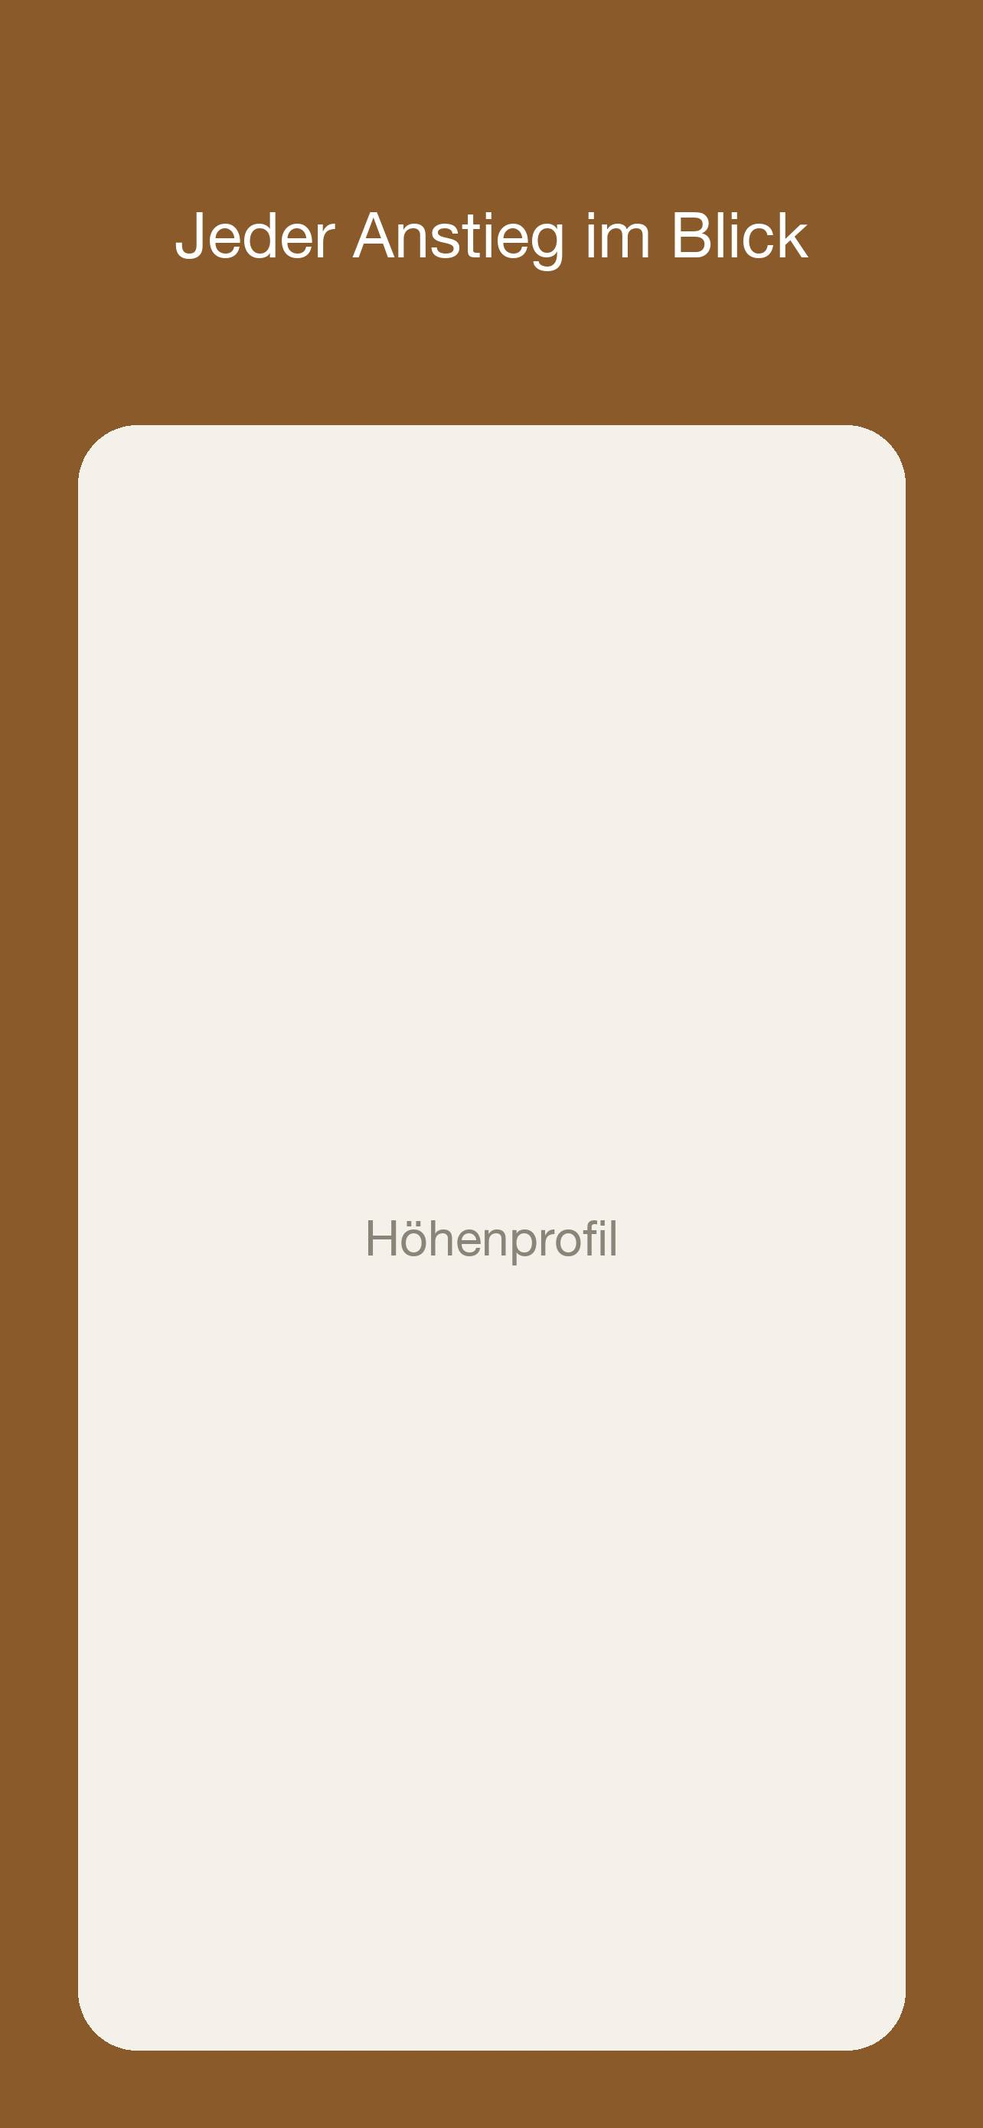
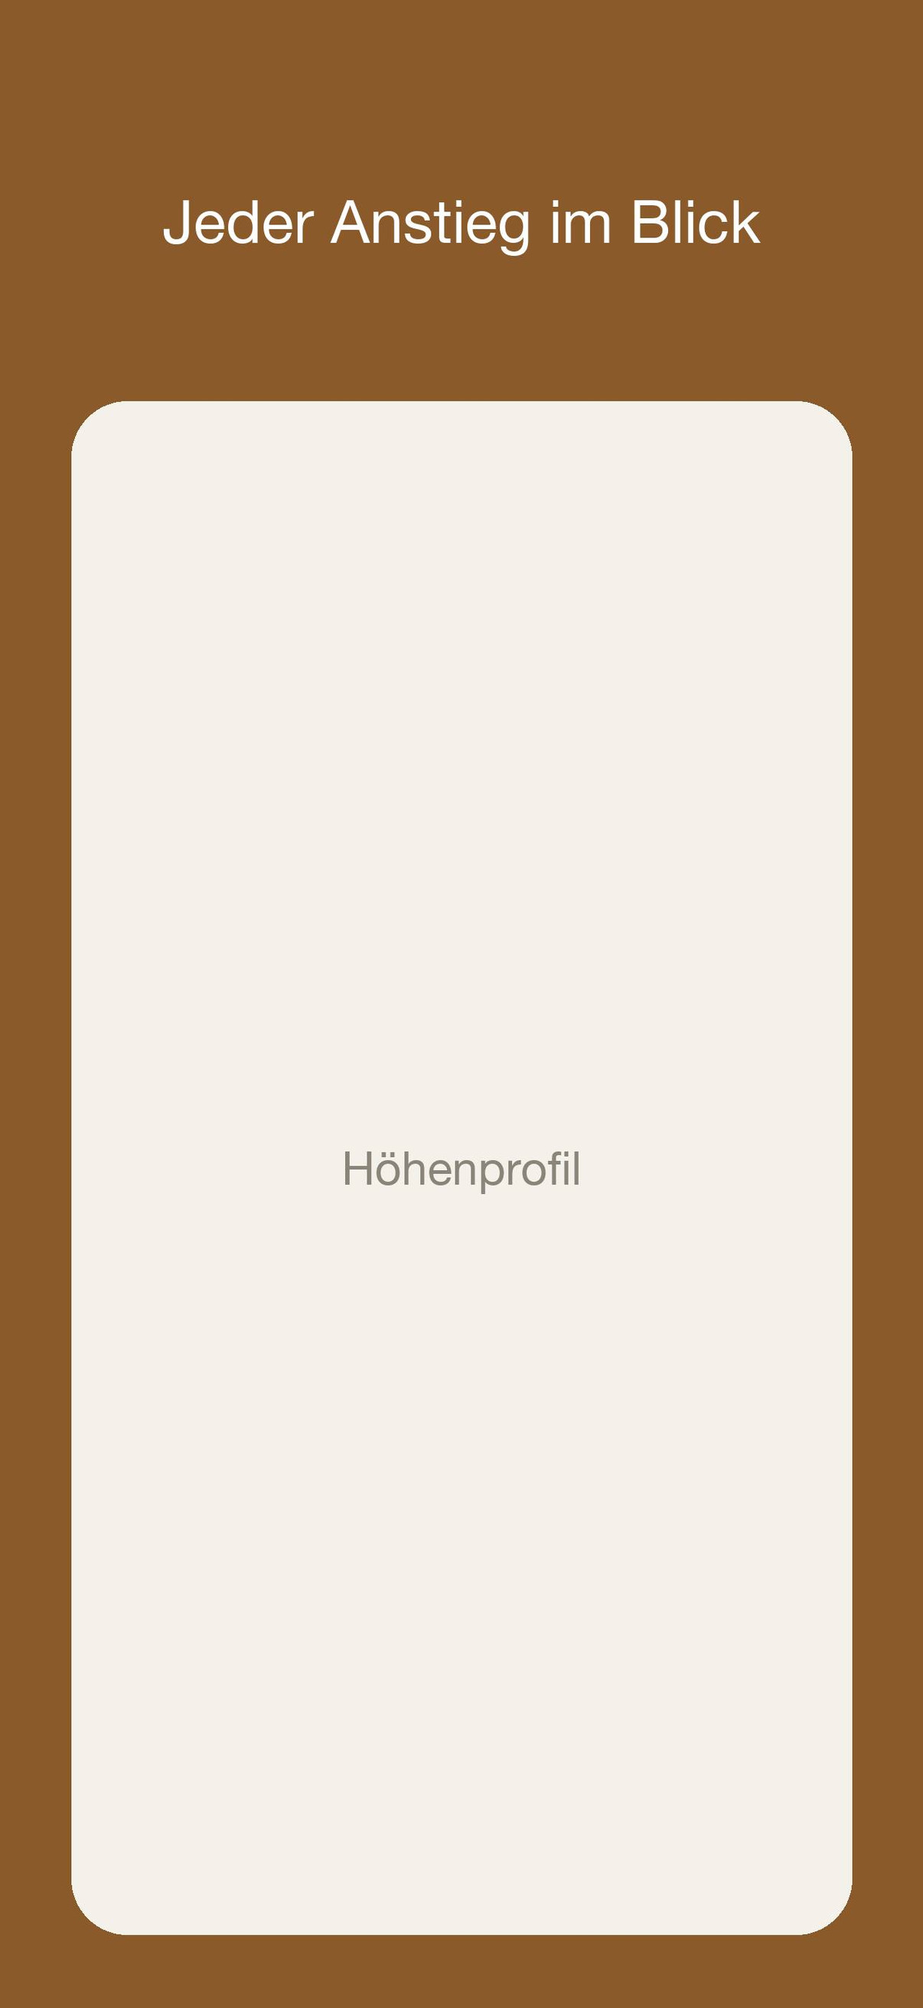
screenshots: the default iPhone is 6.3" (iPhone 17 Pro, 1206x2622), the class Apple now requires; APP_IPHONE_61 maps 1179x2556 and 1206x2622

diff --git a/src/snakelane/screenshots/media.py b/src/snakelane/screenshots/media.py
@@ -28,6 +28,8 @@ def _both_ways(sizes: list[tuple[int, int]]) -> list[tuple[int, int]]:
 # Why: docs/design/screenshots.md#the-display-type-table
 # Each iOS slot, the display App Store Connect names it by (the gallery's label), and its sizes.
 IOS_SLOTS = [
+    # Apple's one required iPhone class ("Dynamic Island, medium display"): 15 / 16 / 15 Pro, then 16 Pro / 17 / 17 Pro.
+    ("APP_IPHONE_61", '6.3"', [(1179, 2556), (1206, 2622)]),
     ("APP_IPHONE_65", '6.5"', [(1242, 2688), (1284, 2778)]),  # 11 Pro Max / XS Max, 14 Plus / 13 Pro Max
     # Plus the physically 6.5" iPhone Air (1260x2736), which files here.
     ("APP_IPHONE_67", '6.9"', [(1260, 2736), (1290, 2796), (1320, 2868)]),
@@ -42,19 +44,20 @@ SCREENSHOT_DISPLAY_TYPES = {
 
 # The sizes snakelane shoots by default; any other accepted size uploads with a warning.
 # Why: docs/design/screenshots.md#non-default-sizes-are-a-warning
-DISPLAY_TYPE_FAMILY = {"APP_IPHONE_65": "iPhone", "APP_IPHONE_67": "iPhone",
+DISPLAY_TYPE_FAMILY = {"APP_IPHONE_61": "iPhone", "APP_IPHONE_65": "iPhone", "APP_IPHONE_67": "iPhone",
                        "APP_IPAD_PRO_3GEN_129": "iPad", "APP_DESKTOP": "Mac"}
 PREFERRED_SIZES = {  # family -> (label, sizes, advice)
-    "iPhone": ('6.5"', {d for d, t in SCREENSHOT_DISPLAY_TYPES.items() if t == "APP_IPHONE_65"},
-               'ASC will show the 6.5" slot dimmed'),
+    "iPhone": ('6.3"', {d for d, t in SCREENSHOT_DISPLAY_TYPES.items() if t == "APP_IPHONE_61"},
+               'ASC will show the 6.3" slot, the one it requires, dimmed; re-shoot on iPhone 17 Pro'),
     "iPad": ('13"', {(2064, 2752), (2752, 2064)}, '12.9" is the legacy size; re-shoot on iPad Pro 13-inch (M5)'),
 }
 
 # Accepted App Preview sizes per slot, a local pre-check of Apple's app-preview-specifications page.
-# Keys are previewType values (no APP_ prefix: ASC 409s on it). 886x1920 fits both iPhone slots,
+# Keys are previewType values (no APP_ prefix: ASC 409s on it). 886x1920 fits every iPhone slot,
 # so the slot comes from the shots beside a video, not this table.
 # Why: docs/design/screenshots.md#an-app-previews-slot-comes-from-the-screenshots-beside-it
 ACCEPTED_PREVIEW_SIZES = {
+    "IPHONE_61": {(886, 1920), (1920, 886)},
     "IPHONE_65": {(886, 1920), (1920, 886)},
     "IPHONE_67": {(886, 1920), (1920, 886)},
     "IPAD_PRO_3GEN_129": {(1200, 1600), (1600, 1200)},  # not 900x1200: that is the 2nd-gen 12.9"'s
@@ -161,8 +164,8 @@ def preview_type_for(path: Path, deck: Path) -> str:
     Why: docs/design/screenshots.md#an-app-previews-slot-comes-from-the-screenshots-beside-it"""
     if not (shots := deck_files([deck], DECK_SUFFIXES, "screenshot", quiet=True)):
         raise SystemExit(
-            f"{path.name} has no screenshots beside it in {deck}, so there is nothing to tell a 6.5\" preview "
-            "from a 6.9\" one — Apple accepts 886x1920 for both. Shoot the deck first, or upload this preview "
+            f"{path.name} has no screenshots beside it in {deck}, so there is nothing to tell which iPhone slot "
+            "a preview fills — Apple accepts 886x1920 for every one. Shoot the deck first, or upload this preview "
             "by hand."
         )
     display_type = display_type_for(shots[0])

diff --git a/tests/test_screenshots_push.py b/tests/test_screenshots_push.py
@@ -18,6 +18,11 @@ def test_every_accepted_69_inch_size_maps(tmp_path: Path, size: tuple[int, int])
     assert media.display_type_for(image(tmp_path / "ss-01.png", *size)) == "APP_IPHONE_67"
 
 
+@pytest.mark.parametrize("size", [(1179, 2556), (1206, 2622), (2622, 1206)])
+def test_every_accepted_63_inch_size_maps(tmp_path: Path, size: tuple[int, int]) -> None:
+    assert media.display_type_for(image(tmp_path / "ss-01.png", *size)) == "APP_IPHONE_61"
+
+
 def test_unknown_size_is_refused(tmp_path: Path) -> None:
     with pytest.raises(SystemExit, match="unknown screenshot pixel size"):
         media.display_type_for(image(tmp_path / "ss-01.png", 1668, 2420))
@@ -36,20 +41,20 @@ def test_sets_over_ten_are_reported_per_locale_and_type() -> None:
 
 
 def test_default_sizes_raise_no_warning() -> None:
-    assert media.size_warnings([(1284, 2778), (1242, 2688), (2064, 2752), (2880, 1800)]) == []
+    assert media.size_warnings([(1206, 2622), (1179, 2556), (2064, 2752), (2880, 1800)]) == []
 
 
 def test_other_accepted_sizes_warn_but_still_map(tmp_path: Path) -> None:
-    files = [image(tmp_path / f"{n}.png", 1320, 2868) for n in range(3)]
+    files = [image(tmp_path / f"{n}.png", 1284, 2778) for n in range(3)]
     files.append(image(tmp_path / "ipad.png", 2048, 2732))
     warnings = media.size_warnings([media.screenshot_dimensions(f) for f in files])
     assert warnings == [
         '1 iPad screenshot(s) at 2048x2732, not the 13" snakelane defaults to'
         ' — 12.9" is the legacy size; re-shoot on iPad Pro 13-inch (M5)',
-        '3 iPhone screenshot(s) at 1320x2868, not the 6.5" snakelane defaults to'
-        ' — ASC will show the 6.5" slot dimmed',
+        '3 iPhone screenshot(s) at 1284x2778, not the 6.3" snakelane defaults to'
+        ' — ASC will show the 6.3" slot, the one it requires, dimmed; re-shoot on iPhone 17 Pro',
     ]
-    assert {media.display_type_for(f) for f in files} == {"APP_IPHONE_67", "APP_IPAD_PRO_3GEN_129"}
+    assert {media.display_type_for(f) for f in files} == {"APP_IPHONE_65", "APP_IPAD_PRO_3GEN_129"}
 
 
 def test_a_rejected_screenshot_is_retried_into_its_own_set(monkeypatch: pytest.MonkeyPatch, tmp_path: Path) -> None:

diff --git a/src/snakelane/screenshots/shoot.py b/src/snakelane/screenshots/shoot.py
@@ -6,7 +6,7 @@ snakelane.yml "screenshots" (all optional; full reference in the skill's referen
     scheme            scheme to test under; default the top-level "scheme"
     test              -only-testing id, or null: whole scheme; default <scheme>UITests/<scheme>UITestsScreenshotsUITests
     test_plan         -testPlan name
-    devices           names, UDIDs or {"name"|"id", "os", "deck"}; default ["iPhone 14 Plus", "iPad Pro 13-inch (M5)"]
+    devices           names, UDIDs or {"name"|"id", "os", "deck"}; default ["iPhone 17 Pro", "iPad Pro 13-inch (M5)"]
     locales           ASC locales, or {ASC locale: language key for the test}; default ["en-US"]
     env               extra test-runner variables (TEST_RUNNER_ prefix added); default {}
     frame             who draws captions: "test" (default; reframe runs reframe_test) | "snakelane" | "none"
@@ -42,9 +42,9 @@ from ..project import IMAGE_SUFFIXES, App, DeckTree, device_deck, resolve_app
 from ..xcode import run, show, sweep_test_devices
 from .extract import extract_deck
 
-# The 6.5" iPhone class (deliberately not 6.9") and the 13" iPad.
+# The 6.3" iPhone class, the one Apple requires, and the 13" iPad.
 # Why: docs/design/screenshots.md#the-default-lineup
-DEFAULT_DEVICES = ["iPhone 14 Plus", "iPad Pro 13-inch (M5)"]
+DEFAULT_DEVICES = ["iPhone 17 Pro", "iPad Pro 13-inch (M5)"]
 MAC_DESTINATION = "platform=macOS,arch=arm64"  # the app sizes its own window to an ASC Mac size
 # framed/: every image, since the push uploads every image there. raw/: only the shots.
 # Why: docs/design/screenshots.md#what-a-shoot-clears

diff --git a/src/snakelane/screenshots/frame.py b/src/snakelane/screenshots/frame.py
@@ -28,8 +28,8 @@ from .framing.style import DECKS, check_framing, style_for, theme_of
 from .framing.themes import THEMES
 from .media import deck_files, save_jpeg
 
-# The canvas when "targets" names none: 6.5" iPhone, 13" iPad, the Mac. Only the handoff needs it.
-DECK_CANVAS = {"iphone": (1284, 2778), "ipad": (2064, 2752), "mac": (2880, 1800)}
+# The canvas when "targets" names none: 6.3" iPhone, 13" iPad, the Mac. Only the handoff needs it.
+DECK_CANVAS = {"iphone": (1206, 2622), "ipad": (2064, 2752), "mac": (2880, 1800)}
 CAPTIONS = 'snakelane.yml "framing.captions"'
 PLATFORM_DECKS = {"ios": ("iphone", "ipad"), "macos": ("mac",)}
 OLD_ACCENT = re.compile(r"(?<![*\\])\*(?!\*)[^*\n]+(?<![*\\])\*(?!\*)")

diff --git a/tests/test_gallery.py b/tests/test_gallery.py
@@ -118,4 +118,4 @@ def test_each_shot_names_its_screen_size() -> None:
     from .test_examples import TRAILHEAD
 
     page = gallery.build(project.resolve_app(None, root=TRAILHEAD))
-    assert "1284×2778 (6.5&quot;)" in page and "2064×2752 (13&quot;)" in page
+    assert "1206×2622 (6.3&quot;)" in page and "2064×2752 (13&quot;)" in page

diff --git a/src/snakelane/init.py b/src/snakelane/init.py
@@ -73,7 +73,7 @@ platforms: [{", ".join(platforms)}]
 #   secondary: UTILITIES
 
 # screenshots:
-#   devices: [iPhone 14 Plus, iPad Pro 13-inch (M5)]   # 6.5" iPhone and 13" iPad
+#   devices: [iPhone 17 Pro, iPad Pro 13-inch (M5)]   # 6.3" iPhone and 13" iPad
 """
 
 

diff --git a/docs/design/screenshots.md b/docs/design/screenshots.md
@@ -10,9 +10,9 @@ These are the reasons behind decisions in `src/snakelane/screenshots/` (shoot, e
 
 ### The default lineup
 
-The default iPhone is the iPhone 14 Plus, which shoots the 6.5" display class (1284x2778, `APP_IPHONE_65`), chosen over a current 6.9" device. App Store Connect's media page shows every class that was not uploaded natively as a dimmed, scaled copy, so the class that was shot is the only one that looks crisp there. Apple also scales a 6.5" deck up to 6.9" displays when no 6.9" set exists, but does not scale a 6.9" deck down. The physically 6.5-inch iPhone Air does not shoot this class: its 1260x2736 files under 6.9".
+The default iPhone is the iPhone 17 Pro, which shoots the 6.3" display class (1206x2622, `APP_IPHONE_61`; the iPhone 15, 15 Pro and 16 shoot 1179x2556, the same slot). Apple's screenshot-specifications page names it "iPhone with Dynamic Island (medium display)" and makes it the one required iPhone class ("At least one screenshot for iPhone with Dynamic Island (medium display)"), and ASC's media page now offers "6.1" or 6.3" displays" first. App Store Connect shows every class that was not uploaded natively as a dimmed, scaled copy, so shooting the required class is also what keeps it crisp there.
 
-This was re-decided on 2026-10-02. Apple's screenshot-specifications page now describes the scaling the other way (6.5" derived from 6.9"), and 6.9"-only apps are live. The default stayed 6.5" on the dimming argument alone.
+This was decided on 2026-10-15. Until then the default was the iPhone 14 Plus at 6.5" (1284x2778, `APP_IPHONE_65`), chosen on 2026-10-02 over a 6.9" device because ASC then offered 6.5" as its default slot and Apple scaled a 6.5" deck up to 6.9" but not a 6.9" deck down. Once ASC's media page led with 6.3", a 6.5" deck was the one shown dimmed. A 6.5" or 6.9" deck still uploads, with a warning; switching an app means re-shooting, and the push's stale-set sweep then deletes the old class's set.
 
 The iPad is the 13" iPad Pro, which ASC now requires. The 12.9" (2048x2732) is legacy and no longer an installed simulator on current Xcodes; both file under `APP_IPAD_PRO_3GEN_129`. Switching class means re-shooting, because the push reads the class from the pixels and a stale set left in ASC keeps being preferred. A full `shoot` clears the tree first, so it handles this on its own.
 
@@ -134,13 +134,13 @@ The check needs macOS's Vision framework through pyobjc, an optional extra. With
 
 ### The display-type table
 
-The display type is read from the image's pixel size. Both orientations are listed because a device rotated for a landscape shot still maps to the same slot. Which slot a deck fills is decided by what was shot, never by a config key. Sizes were verified against ASC on 2026-09-11 and Apple's screenshot-specifications page on 2026-10-02. Apple moves this (the iPad slot already went from 12.9" to 13"), so ASC's own media page is the arbiter.
+The display type is read from the image's pixel size. Both orientations are listed because a device rotated for a landscape shot still maps to the same slot. Which slot a deck fills is decided by what was shot, never by a config key. Sizes were verified against ASC on 2026-09-11 and Apple's screenshot-specifications page on 2026-10-02; the 6.3" class (1179x2556, 1206x2622) on 2026-10-15, from both. Apple moves this (the iPad slot already went from 12.9" to 13"), so ASC's own media page is the arbiter.
 
 1290x2796, the third accepted 6.9" size (iPhone 14, 15 and 16 Pro Max and Plus), was missing until 2026-10-02, so a deck shot on one of those simulators failed the push as an unknown size. The legacy 12.9" iPad sizes stay mapped so an older deck still pushes until its next re-shoot. The iPad naming is a trap: the current device is named for its chip and the legacy one for its inches, so the older simulator is the one that reads like the deliberate choice.
 
 ### Non-default sizes are a warning
 
-Any accepted size uploads. A size other than the default (6.5" iPhone, 13" iPad) gets a warning, because the class that was shot is the one ASC shows as uploaded rather than dimmed.
+Any accepted size uploads. A size other than the default (6.3" iPhone, 13" iPad) gets a warning, because the class that was shot is the one ASC shows as uploaded rather than dimmed.
 
 ### At most ten screenshots per set
 
@@ -152,7 +152,7 @@ Until 2026-10-02 snakelane carried its own PNG decoder (scanline unfiltering, Pa
 
 ### An App Preview's slot comes from the screenshots beside it
 
-Apple accepts 886x1920 for both the 6.5" and 6.9" preview slots, so a video's own pixels cannot say which deck it belongs to. The `ss-NN` shots in the same folder can: their display class is unambiguous, and one folder is one device class. The video's dimensions are then validated against what that slot accepts, so a wrong encode fails in seconds rather than at Apple's end hours later. An earlier version mapped 886x1920 straight to the 6.9" slot and invented a 1080x1920 entry for 6.5" that appears nowhere in Apple's table, which would have uploaded every 6.5" deck's preview into the 6.9" slot.
+Apple accepts 886x1920 for the 6.3", 6.5" and 6.9" preview slots alike, so a video's own pixels cannot say which deck it belongs to. The `ss-NN` shots in the same folder can: their display class is unambiguous, and one folder is one device class. The video's dimensions are then validated against what that slot accepts, so a wrong encode fails in seconds rather than at Apple's end hours later. An earlier version mapped 886x1920 straight to the 6.9" slot and invented a 1080x1920 entry for 6.5" that appears nowhere in Apple's table, which would have uploaded every 6.5" deck's preview into the 6.9" slot.
 
 886x1920 looks invented but is 1920 on the long edge at 19.5:9, the shape of every notched iPhone. 1080x1920 is the 16:9 size and belongs to the 5.5" and 4.0" slots. The iPad slot accepts 1200x1600 only; 900x1200 belongs to the 2nd-generation 12.9" preview type (`IPAD_PRO_129`). The table is a local pre-check from Apple's [app preview specifications](https://developer.apple.com/help/app-store-connect/reference/app-information/app-preview-specifications); ASC is the arbiter.
 

diff --git a/skills/snakelane/references/gotchas.md b/skills/snakelane/references/gotchas.md
@@ -117,7 +117,7 @@ custom terms page, link Apple's standard EULA:
 ## Screenshots
 
 **The caption band must not add height.** ASC enforces [exact dimensions per display type](https://developer.apple.com/help/app-store-connect/reference/app-information/screenshot-specifications)
-(2778×1284 for iPhone 6.5", 2752×2064 for iPad 13"), so a band stacked *above* a
+(2622×1206 for iPhone 6.3", 2752×2064 for iPad 13"), so a band stacked *above* a
 full-size capture makes the output ~13 % taller and every shot rejects with "Invalid screen
 size". `snakelane frame` keeps the size in every layout: `full-bleed` paints the caption
 over the capture's top strip; `stacked` scales the capture into the area below the band
@@ -134,9 +134,9 @@ gets its depth from `shoot` (the banner handoff), so the two never drift.
 
 **Read the sizes off App Store Connect, not off a guide.** ASC names the accepted sizes for
 each slot on the media page itself, and that is the only source that is about *your* app.
-Third-party articles are confidently wrong in both directions. Several insist the 6.9" iPhone
-set is mandatory when ASC offers 6.5" as the default slot, which would have sent a whole deck
-to the wrong class.
+Third-party articles are confidently wrong in both directions. Several insisted the 6.9" iPhone
+set was mandatory while ASC offered 6.5" as the default slot, which would have sent a whole deck
+to the wrong class; since 2026 ASC offers and requires 6.3".
 
 **Shoot the iPad at 13-inch (2064×2752), not 12.9-inch (2048×2732).** Sixteen pixels apart,
 nearly the same physical panel, and ASC lists the 13" as the iPad slot's size while the 12.9"
@@ -150,13 +150,13 @@ inches ("iPad Pro (12.9-inch) (6th generation)"), so the older, wronger device i
 that reads like the deliberate choice.
 
 **Name the simulator, not the size, when asking for hand-shot captures.** A person shooting
-by hand picks a device from a menu, and the size follows from it; asking for "2778×1284"
+by hand picks a device from a menu, and the size follows from it; asking for "2622×1206"
 leaves them to reverse-engineer which device that is, and several devices are one row apart
 in the menu with a different size. The two ASC default slots today:
 
 | Slot | Pixels (landscape) | Simulator | Note |
 |---|---|---|---|
-| iPhone 6.5" | 2778×1284 | **iPhone 14 Plus** | Also iPhone 12/13/14 Pro Max. NOT iPhone 15/16/17: those are 6.3"/6.9" classes at different sizes. |
+| iPhone 6.3" | 2622×1206 | **iPhone 17 Pro** | Also iPhone 16 Pro and 17; iPhone 15, 15 Pro and 16 shoot 2556×1179, the same slot. NOT the Pro Max or Plus: those are 6.9". |
 | iPad 13" | 2752×2064 | **iPad Pro 13-inch (M4)** or later | NOT "iPad Pro (12.9-inch) (6th generation)", which is 2732×2048. |
 
 Verify rather than trust the table: `xcrun simctl list devices available` names what is

diff --git a/skills/snakelane/SKILL.md b/skills/snakelane/SKILL.md
@@ -243,9 +243,10 @@ Don't mark `--reviewed` on your own translation without the user's go-ahead.
 - 1–10 screenshots per set (locale × display type); the push refuses an 11th before deleting
   anything. A locale with no folder at all inherits the primary language's screenshots on the
   store — nothing is copied, and that is a valid way to ship a locale.
-- iPhone 6.5" (1284×2778) is the default size on purpose, not an oversight: a 6.5" set shows
-  in ASC's media page as uploaded, not dimmed as a scaled derivative. Apple's [spec page](https://developer.apple.com/help/app-store-connect/reference/app-information/screenshot-specifications) lists
-  6.9" first and accepts either; don't "upgrade" an app's lineup to 6.9" unprompted.
+- iPhone 6.3" (1206×2622, the `iPhone 17 Pro` simulator; 1179×2556 also fits) is the default
+  size: Apple's [spec page](https://developer.apple.com/help/app-store-connect/reference/app-information/screenshot-specifications) requires "at least one screenshot for iPhone with Dynamic Island
+  (medium display)", and ASC's media page offers it first (2026-10-15). It was 6.5" until then.
+  An app whose deck is still 6.5" or 6.9" uploads with a warning; move it at its next re-shoot.
 - iPad 13" (2064×2752, the `iPad Pro 13-inch (M5)` simulator) is the default and the size to
   shoot. It shares the 12.9" slot; 12.9" decks are legacy, so move an app to 13" at its next
   re-shoot. Confirm device names against `xcrun simctl list devices available`.

diff --git a/CHANGELOG.md b/CHANGELOG.md
@@ -6,6 +6,15 @@ behaviour bumps the minor version. Each release is tagged `vX.Y.Z`.
 
 ## Unreleased
 
+- **The default iPhone size is 6.3"** (1206×2622, shot on the iPhone 17 Pro), the class Apple's
+  screenshot specifications now require ("iPhone with Dynamic Island, medium display") and
+  ASC's media page offers first. It was 6.5" (iPhone 14 Plus). The 6.3" slot, `APP_IPHONE_61`,
+  is new: its sizes (1179×2556 and 1206×2622) used to fail the push as unknown, and its App
+  Preview slot takes 886×1920. A 6.5" or 6.9" deck still uploads, now with a warning; re-shoot
+  to move an app, and the push deletes the old class's live set. `frame`'s default iPhone
+  canvas follows. An app that names `iPhone 14 Plus` in `screenshots.devices` keeps shooting
+  6.5" until it changes the name.
+
 - **A callout's placement can differ per deck.** `edge`, `centre`, `width`, `height` and
   `radius` under `framing.caption.callout` take a mapping by deck, as `caption.position` does:
   `centre: {iphone: 0.09, ipad: 0.88}`. A landscape table on its side leaves its bare felt in

diff --git a/README.md b/README.md
@@ -70,7 +70,7 @@ snakelane ship beta                # test → archive → TestFlight
 - [x] The app leaves room for the caption: `shoot` hands it the band's depth
 - [x] Push screenshots and App Previews, with the slot worked out from [pixel size](https://developer.apple.com/help/app-store-connect/reference/app-information/screenshot-specifications), the
    10-per-set limit enforced, and Apple's processing waited on
-- [x] Warnings for sizes other than the 6.5" iPhone and 13" iPad defaults
+- [x] Warnings for sizes other than the 6.3" iPhone and 13" iPad defaults
 - [x] OCR check that refuses a deck shot from a debug build (`check`)
 - [x] HTML review page (`gallery`): every deck against what's live or the last commit, App Store
    search-result and product-page mocks, lint and translation status per locale

diff --git a/examples/README.md b/examples/README.md
@@ -32,7 +32,7 @@ Things to notice:
 
 - **A missing or empty file means "leave the live value alone".** en-AU has no `name.txt`, so it
   gets the default; nothing ever pushes a blank over App Store Connect.
-- **Screenshots are found by pixel size,** not by folder or file name: 1284×2778 is the 6.5"
+- **Screenshots are found by pixel size,** not by folder or file name: 1206×2622 is the 6.3"
   iPhone slot, 2064×2752 the 13" iPad. The names only set the order.
 - **A locale with no screenshot folder inherits** the primary language's shots on the App
   Store (en-AU here). An *empty* folder is different: the push reads it as "delete this
